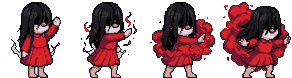
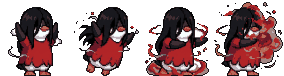
紅衣小女孩換成真正的企鵝體型（圓身體、黑背白肚、鰭）
Claude-Session: https://claude.ai/code/session_01K6oRAtuf6xdsFm2mqTT7pA

diff --git a/index.html b/index.html
@@ -5,7 +5,7 @@
   <meta name="viewport" content="width=device-width, initial-scale=1, maximum-scale=1, user-scalable=no">
   <meta name="theme-color" content="#0b0a12">
   <title>轉生終端</title>
-  <link rel="stylesheet" href="style.css?v=20261023d">
+  <link rel="stylesheet" href="style.css?v=20261023e">
 </head>
 <body>
   <main id="app">
@@ -56,12 +56,12 @@
     </section>
   </main>
 
-  <script src="js/data.js?v=20261023d"></script>
-  <script src="js/jobs.js?v=20261023d"></script>
-  <script src="js/sprites.js?v=20261023d"></script>
-  <script src="js/scene.js?v=20261023d"></script>
-  <script src="js/battle.js?v=20261023d"></script>
-  <script src="js/tutorial.js?v=20261023d"></script>
-  <script src="js/main.js?v=20261023d"></script>
+  <script src="js/data.js?v=20261023e"></script>
+  <script src="js/jobs.js?v=20261023e"></script>
+  <script src="js/sprites.js?v=20261023e"></script>
+  <script src="js/scene.js?v=20261023e"></script>
+  <script src="js/battle.js?v=20261023e"></script>
+  <script src="js/tutorial.js?v=20261023e"></script>
+  <script src="js/main.js?v=20261023e"></script>
 </body>
 </html>

diff --git a/side.html b/side.html
@@ -4,7 +4,7 @@
 <meta charset="utf-8">
 <meta name="viewport" content="width=device-width, initial-scale=1, maximum-scale=1, user-scalable=no">
 <title>橫向戰鬥試玩</title>
-<link rel="stylesheet" href="style.css?v=20261023d">
+<link rel="stylesheet" href="style.css?v=20261023e">
 <style>
   .stage { width: 100%; height: auto; border: 2px solid var(--line); background: #0b0a12; touch-action: manipulation; }
   .bar { display: flex; justify-content: space-between; margin: 6px 0; font-size: 14px; }
@@ -33,9 +33,9 @@
   <div class="log"></div>
   <a class="btn wide" href="./" style="display:block;text-align:center;text-decoration:none;margin-top:10px">回遊戲</a>
 </div>
-<script src="js/data.js?v=20261023d"></script>
-<script src="js/jobs.js?v=20261023d"></script>
-<script src="js/sprites.js?v=20261023d"></script>
+<script src="js/data.js?v=20261023e"></script>
+<script src="js/jobs.js?v=20261023e"></script>
+<script src="js/sprites.js?v=20261023e"></script>
 <script>
 'use strict';
 // 橫向回合制原型：我方站左邊、敵人站右邊，各自有前後排。點技能，再點目標。

diff --git a/js/sprites.js b/js/sprites.js
@@ -363,7 +363,7 @@ const ART = {
     dir: 'assets/redgirl/',
     mark: 'fog', // 身邊飄紅色山霧
     // punch 是蹲低撲上去抓，cast 是揮手召出紅霧
-    sheets: { pose: ['sheet.png', 56, 78], walk: ['walk.png', 52, 78], punch: ['punch.png', 75, 78], cast: ['cast.png', 73, 78], hurt: ['hurt.png', 96, 78] },
+    sheets: { pose: ['sheet.png', 63, 76], walk: ['walk.png', 61, 76], punch: ['punch.png', 76, 76], cast: ['cast.png', 71, 76], hurt: ['hurt.png', 88, 76] },
   },
 };
 // 新一批職業圖（tools/job_art.py 產生，每張 3 格）：idle 待機、walk 走路、hurt 受傷、s1/s2 兩招技能、ult 大招
@@ -407,7 +407,7 @@ function artAnim(job, name) {
 }
 
 // 圖檔更新時改這個，手機才不會一直用快取的舊圖
-const ASSET_V = '20261023c';
+const ASSET_V = '20261023d';
 const ArtImages = {};
 function artSheet(job, sheet) {
   const a = ART[job], spec = a && a.sheets[sheet];
